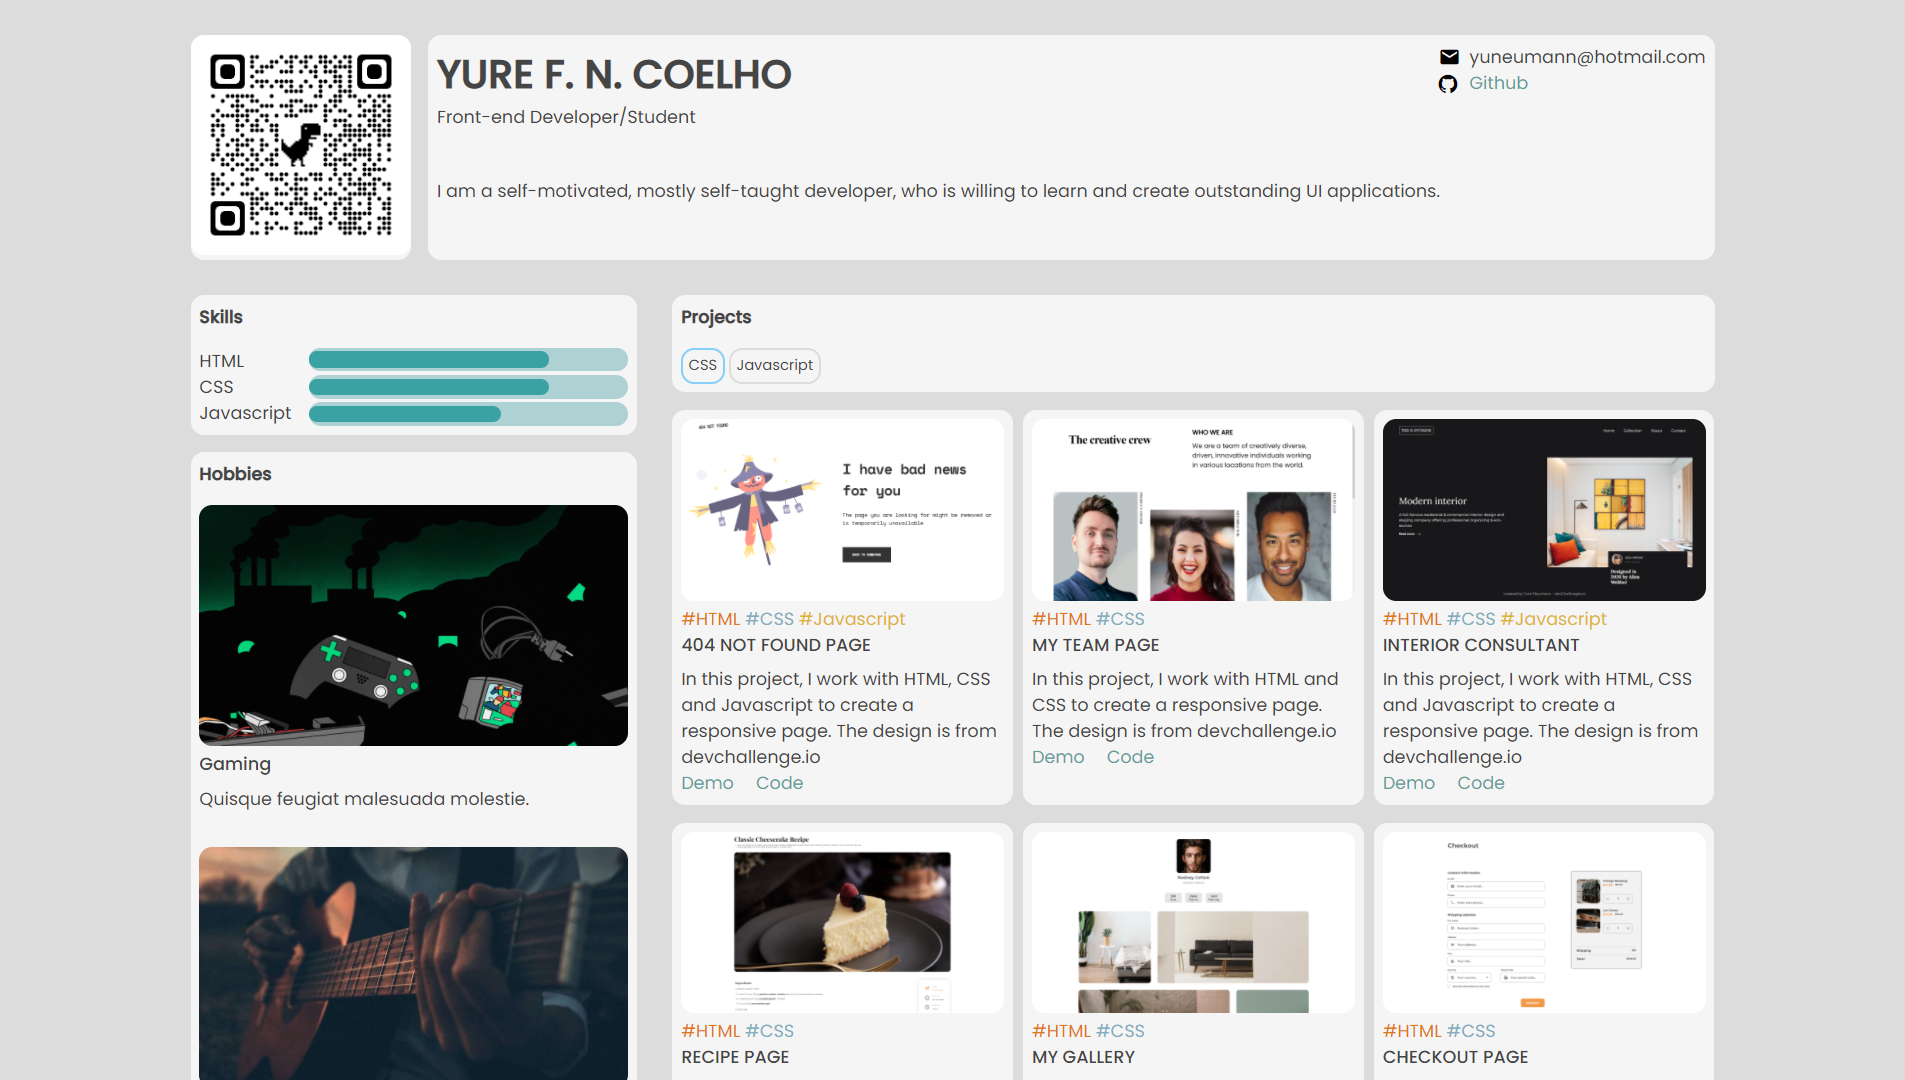
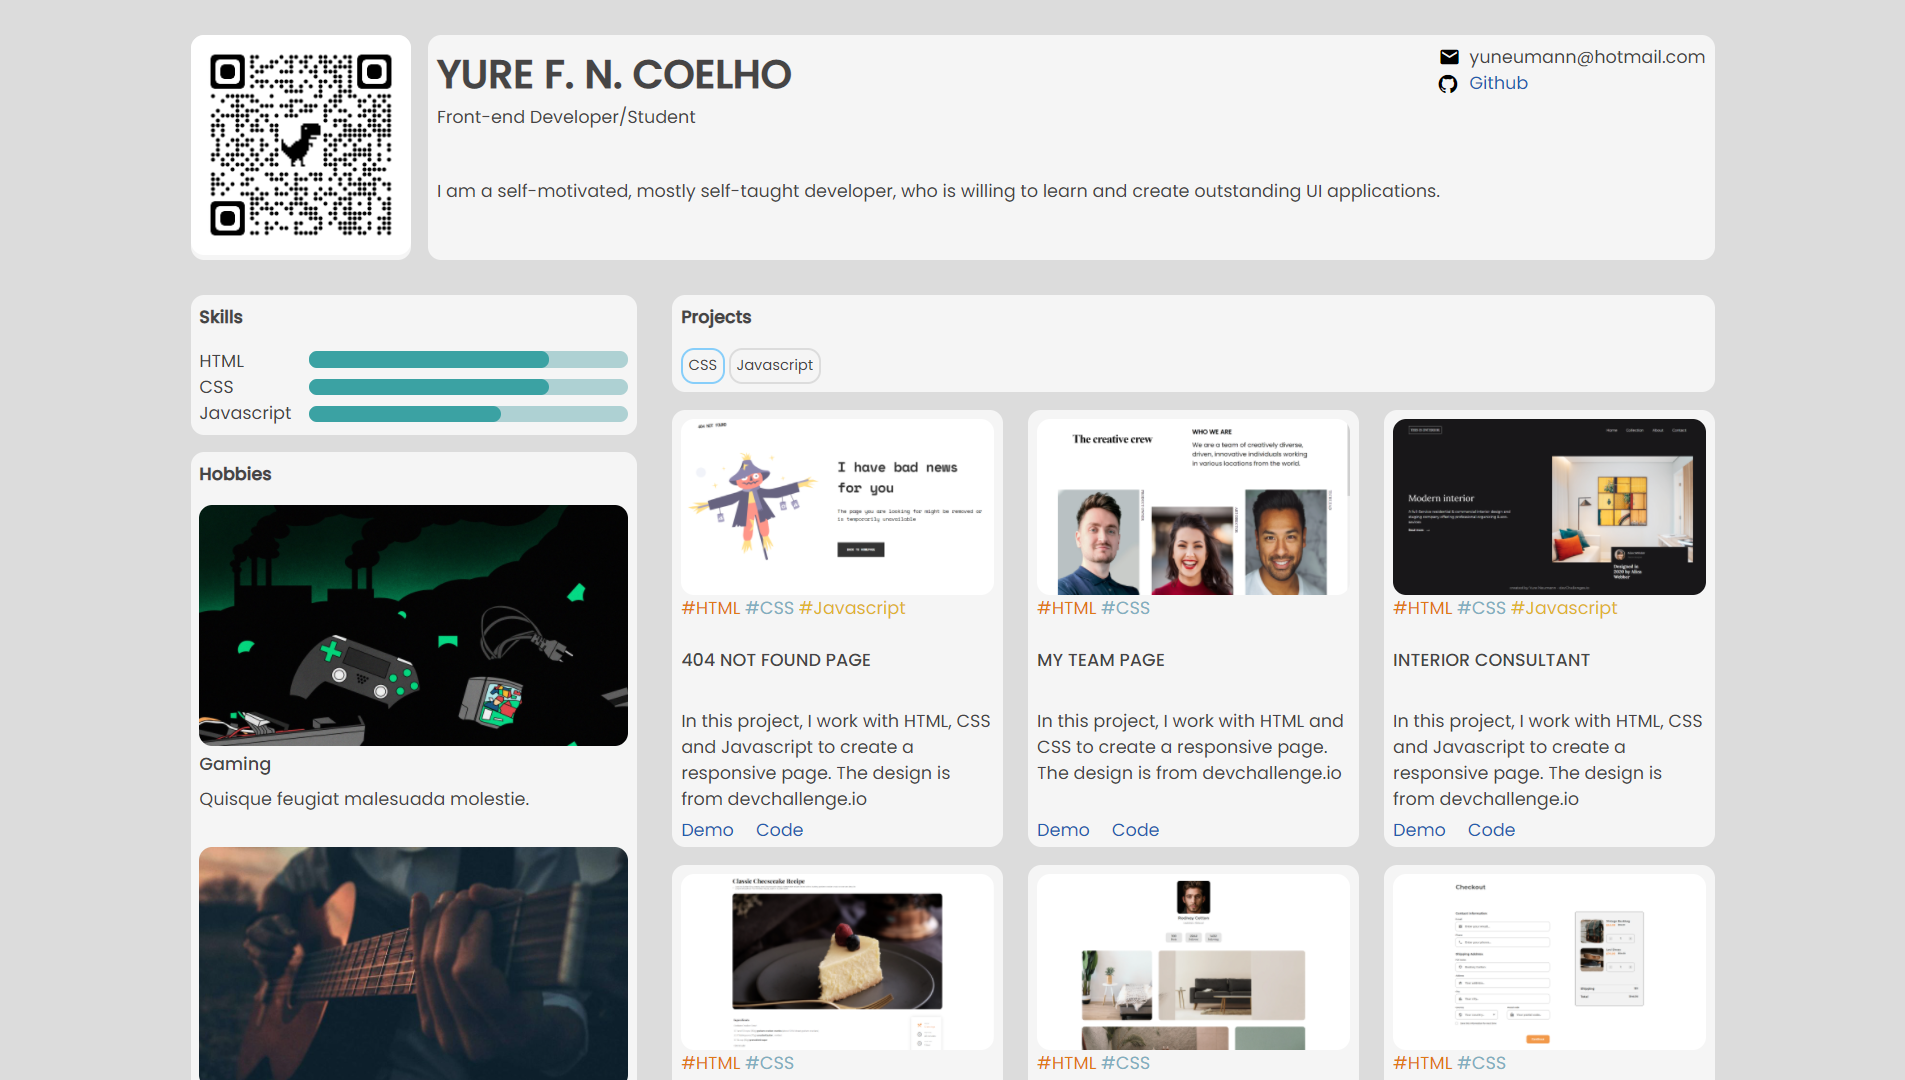
Add files via upload

Changed region(s): [[0.3407, 0.3667, 0.8982, 1.0], [0.1549, 0.3361, 0.3407, 0.3972], [0.7743, 0.0611, 0.8052, 0.0917]]

diff --git a/styles.css b/styles.css
@@ -50,8 +50,6 @@ section{
     width: 200px;
     border-radius: 12px;
 }
-
-
 .section-bot{
     gap: 2rem;
 }
@@ -80,10 +78,11 @@ section{
 .skill-levels{
     width: 100%;
     gap: .2rem;
+    justify-content: space-around;
 }
 .level{
     padding: 0;
-    height: 100%;
+    height: 15px;
     background-color: rgba(104, 174, 177, 0.507);
     display: flex;
     align-items: center;
@@ -131,13 +130,18 @@ button{
     background: gainsboro;
 }
 .project-card{
+    display: flex;
+    flex-direction: column;
     padding: .5rem;
-    max-width: 31%;
-    
+    max-width: 30%; 
+    position: relative; 
 }
-.css, .js{
-    opacity: 1;
-    transition: opacity ease-in-out 1s;
+.project-card p{
+    margin-bottom: 1.5rem;
+}
+.sources{
+    position: absolute;
+    bottom: 1%;
 }
 .project-card img, .hobbie img{
     aspect-ratio: 16/9;
@@ -159,7 +163,7 @@ p, a{
 a{
     margin-right: 1rem;
     text-decoration: none;
-    color: cadetblue;
+    color: rgb(37, 92, 175);
     border-bottom: 1px solid transparent;
     transition: border-bottom ease .5s;
 }
@@ -200,6 +204,13 @@ a:hover{
 .author a{
     margin: 0;
 }
+
+.top-img:hover, .top-desc:hover,
+.section-skills:hover, .section-hobbies:hover,
+.projects-tags:hover, .project-card:hover{
+    box-shadow: 0px 0px 13px 1px rgba(20, 77, 82, 0.267);
+}
+
 @media(max-width: 1264px){
     .project-card{
         max-width: 45%;
@@ -227,8 +238,7 @@ a:hover{
             h1{
                 font-size: 28px;
             }
-            @media(max-width: 700px){
-                
+            @media(max-width: 700px){                
                 .top-img img{
                     width: 150px;
                 }
